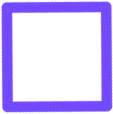
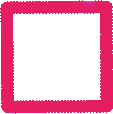
feat: quase_completo

diff --git a/index.html b/index.html
@@ -108,7 +108,7 @@
                 <img src="./img/code-icon.png" class="icon" alt="" />
                 <h3 class="title-sm">Back-end</h3>
                 <p class="text">
-                  Nodejs 
+                  Javascript 
                 </p>
               </div>
             </div>
@@ -160,13 +160,12 @@
           <div class="grid">
             <div class="grid-item front">
               <div class="gallery-image">
-                <a href="https://sisa.systems/" target="_blank">
-                  <img src="./img/portfolio/sisa.png" alt="" />
+                  <img src="./img/portfolio/gato.png" alt="" />
                   <div class="img-overlay">
                     <div class="plus"></div>
                     <div class="img-description">
-                      <h3>Sisa</h3>
-                      <h5>React e material ui</h5>
+                      <h3>No futuro coloco</h3>
+                      <h5>iuiuuiiu</h5>
                     </div>
                   </div>
               </div>
@@ -175,52 +174,48 @@
             <div class="grid">
               <div class="grid-item front">
                 <div class="gallery-image">
-                  <a href="https://animewave.josedhonatas.ninja/" target="_blank">
-                    <img src="./img/portfolio/animewave.png" alt="" />
+                    <img src="./img/portfolio/gato.png" alt="" />
                     <div class="img-overlay">
                       <div class="plus"></div>
                       <div class="img-description">
-                        <h3>Animewave</h3>
-                        <h5>React e material ui</h5>
+                        <h3>No futuro coloco</h3>
+                        <h5>iuiuuiiu</h5>
                       </div>
                     </div>
                 </div>
               </div>
               <div class="grid-item front">
                 <div class="gallery-image">
-                  <a href="https://agendacovid.josedhonatas.ninja/" target="_blank">
-                    <img src="./img/portfolio/icausas.png" alt="" />
+                    <img src="./img/portfolio/gato.png" alt="" />
                     <div class="img-overlay">
                       <div class="plus"></div>
                       <div class="img-description">
-                        <h3>Agenda covid</h3>
-                        <h5>Django, sqlite</h5>
+                        <h3>No futuro coloco</h3>
+                        <h5>iuiuuiiu</h5>
                       </div>
                     </div>
                 </div>
               </div>
               <div class="grid-item front">
                 <div class="gallery-image">
-                  <a href="https://grafos.josedhonatas.ninja/" target="_blank">
-                    <img src="./img/portfolio/grafos.png" alt="" />
+                    <img src="./img/portfolio/gato.png" alt="" />
                     <div class="img-overlay">
                       <div class="plus"></div>
                       <div class="img-description">
-                        <h3>Grafos</h3>
-                        <h5>React, Typescript e material ui</h5>
+                        <h3>No futuro coloco</h3>
+                        <h5>iuiuuiiu</h5>
                       </div>
                     </div>
                 </div>
               </div>
               <div class="grid-item back">
                 <div class="gallery-image">
-                  <a href="https://sisa.systems/" target="_blank">
-                    <img src="./img/portfolio/sisa.png " alt="" />
+                    <img src="./img/portfolio/gato.png " alt="" />
                     <div class="img-overlay">
                       <div class="plus"></div>
                       <div class="img-description">
-                        <h3>Sisa</h3>
-                        <h5>Nodejs, Express</h5>
+                        <h3>No futuro coloco</h3>
+                        <h5>iuiuuiiu</h5>
                       </div>
                     </div>
                 </div>
@@ -228,13 +223,12 @@
 
               <div class="grid-item back">
                 <div class="gallery-image">
-                  <a href="https://apianimewave.josedhonatas.ninja/api-docs/" target="_blank">
-                    <img src="./img/portfolio/animewave.png" alt="" />
+                    <img src="./img/portfolio/gato.png" alt="" />
                     <div class="img-overlay">
                       <div class="plus"></div>
                       <div class="img-description">
-                        <h3>Animewave</h3>
-                        <h5>Nodejs, Express</h5>
+                        <h3>No futuro coloco</h3>
+                        <h5>iuiuuiiu</h5>
                       </div>
                     </div>
                 </div>
@@ -242,13 +236,12 @@
 
               <div class="grid-item back front">
                 <div class="gallery-image">
-                  <a href="https://github.com/josedhontas/PGE-prova/" target="_blank">
-                    <img src="./img/portfolio/pge.png" alt="" />
+                    <img src="./img/portfolio/gato.png" alt="" />
                     <div class="img-overlay">
                       <div class="plus"></div>
                       <div class="img-description">
-                        <h3>PGE teste</h3>
-                        <h5>Express e Typescript</h5>
+                        <h3>No futuro coloco</h3>
+                        <h5>iuiuuiiu</h5>
                       </div>
                     </div>
                   </a>
@@ -278,33 +271,22 @@
             </p>
             <div class="skills">
               <div class="skill js">
-                <h3 class="skill-title">Typescript</h3>
-                <div class="skill-bar">
-                  <div class="skill-progress" data-progress="50%"></div>
-                </div>
-              </div>
-              <div class="skill js">
-                <h3 class="skill-title">React</h3>
-                <div class="skill-bar">
-                  <div class="skill-progress" data-progress="50%"></div>
-                </div>
-              </div>
-              <div class="skill js">
-                <h3 class="skill-title">Express</h3>
-                <div class="skill-bar">
-                  <div class="skill-progress" data-progress="60%"></div>
-                </div>
-              </div>
-              <div class="skill js">
-                <h3 class="skill-title">Spring Boot</h3>
+                <h3 class="skill-title">CSS</h3>
                 <div class="skill-bar">
                   <div class="skill-progress" data-progress="30%"></div>
                 </div>
               </div>
               <div class="skill js">
-                <h3 class="skill-title">SQL</h3>
+                <h3 class="skill-title">HTML</h3>
                 <div class="skill-bar">
-                  <div class="skill-progress" data-progress="60%"></div>
+                  <div class="skill-progress" data-progress="30%"></div>
+                </div>
+              </div>
+
+              <div class="skill js">
+                <h3 class="skill-title">Javascript</h3>
+                <div class="skill-bar">
+                  <div class="skill-progress" data-progress="70%"></div>
                 </div>
               </div>
             </div>
@@ -334,7 +316,7 @@
                 <div class="contact-icon">
                   <i class="fas fa-envelope"></i>
                 </div>
-                <a href="mailto:dhonatasdev@gmail.com" class="info-text" target="_blank">dhonatasdev@gmail.com</a>
+                <a href="mailto:vanessa@gmail.com" class="info-text" target="_blank">vanessa@gmail.com</a>
               </div>
               <div class="information">
                 <div class="contact-icon">
@@ -347,14 +329,14 @@
                 <div class="contact-icon">
                   <i class="fab fa-linkedin-in"></i>
                 </div>
-                <a href="https://www.linkedin.com/in/jos%C3%A9-dhonatas-alves-sales-850509210/" class="info-text"
-                  target="_blank">José Dhonatas</a>
+                <a href="https://www.linkedin.com/in/vanessa-santos-oliveira-47b592307/" class="info-text"
+                  target="_blank">Vanessa Santos</a>
               </div>
               <div class="information">
                 <div class="contact-icon">
                   <i class="fab fa-github"></i>
                 </div>
-                <a href="https://github.com/josedhontas" class="info-text" target="_blank">vanes-sa</a>
+                <a href="https://github.com/vanes-sa" class="info-text" target="_blank">vanes-sa</a>
               </div>
             </div>
           </div>

diff --git a/css/style.css b/css/style.css
@@ -276,7 +276,7 @@ nav .container {
 
 .links a.active:hover {
   color: var(--light-one);
-  background-color: #6b44e0;
+  background-color: #e044b9;
 }
 
 .hamburger-menu {
@@ -640,7 +640,7 @@ header .circle {
   left: 0;
   z-index: 2;
   color: var(--light-one);
-  background-color: rgba(120, 76, 251, 0.55);
+  background-color: rgba(251, 76, 163, 0.719);
   display: flex;
   flex-direction: column;
   align-items: center;
